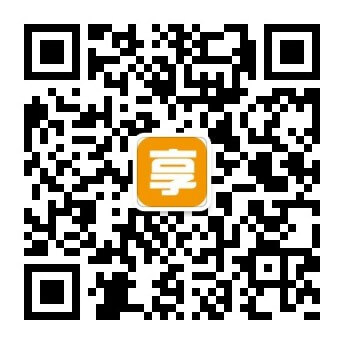
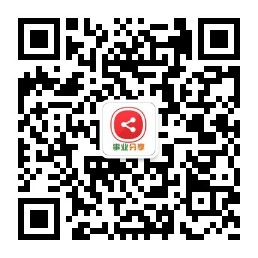
页面调整

diff --git a/src/components/profit/WithdrawCash.vue b/src/components/profit/WithdrawCash.vue
@@ -1,5 +1,8 @@
 <template>
-  <div id="cash" class="flexv wrap">
+  <div
+    id="cash"
+    class="flexv wrap"
+  >
     <div class="flexitemv mainbox">
       <div class="cashes">
         <div class="flex center title">推广奖励申请提现</div>
@@ -7,17 +10,27 @@
           <template v-if="!user.ali_account">
             <div class="flex"><span class="flexitem">未绑定账户</span></div>
             <div class="flex"><em class="flexitem">您当前尚未绑定支付宝</em></div>
-            <router-link to="/profit/bind_account" class="flex endh centerv bls bls-yjt"></router-link>
+            <router-link
+              to="/profit/bind_account"
+              class="flex endh centerv bls bls-yjt"
+            ></router-link>
           </template>
           <template v-else>
             <div class="flex"><span class="flexitem">支付宝</span></div>
-            <div class="flex"><em class="flexitem">{{user.ali_name + '  ' + user.ali_account}} </em></div>
-            <router-link to="/profit/bind_account" class="flex endh centerv bls bls-yjt"></router-link>
+            <div class="flex"><em class="flexitem">{{user.ali_name + ' ' + user.ali_account}} </em></div>
+            <router-link
+              to="/profit/bind_account"
+              class="flex endh centerv bls bls-yjt"
+            ></router-link>
           </template>
         </div>
         <h2 class="flex center">{{surplus_profit}}</h2>
         <p class="flex center">当前可提现余额</p>
-        <a href="javascript:;" class="flex center getcash" :class="{'disable': !user.ali_account || !surplus_profit}">申请提现</a>
+        <a
+          href="javascript:;"
+          class="flex center getcash"
+          :class="{'disable': !user.ali_account || !surplus_profit}"
+        >申请提现</a>
       </div>
       <div class="flex center tips"><span>温馨提示</span></div>
       <div class="tip">
@@ -30,89 +43,114 @@
 </template>
 
 <script>
-  import { getProfit, withdrawCash } from '../../api.js'
-  import { Toast, Indicator } from 'mint-ui'
-  import '../../assets/js/layer.js'
+import { getProfit, withdrawCash } from "../../api.js";
+import { Toast, Indicator } from "mint-ui";
+import "../../assets/js/layer.js";
 
-  export default {
-    name: "WithdrawCash",
-    data () {
-      return {
-
-      }
+export default {
+  name: "WithdrawCash",
+  data() {
+    return {};
+  },
+  computed: {
+    // 获取用户信息
+    user() {
+      return this.$store.state.user;
     },
-    computed: {
-      user () {
-        return this.$store.state.user
-      },
-      surplus_profit () {
-        return this.$store.state.surplus_profit
-      }
+    // 获取金额
+    surplus_profit() {
+      return this.$store.state.surplus_profit;
     },
-    mounted () {
-      this.init()
-    },
-    activated () {
-      if(this.$store.state.surplus_profit === null) {
-        let _this = this
-        let profit = getProfit()
-        profit.then(function (res) {
-          // _this.surplus_profit = res.surplus_profit
-          _this.$store.commit('updateSurplusProfit', res.surplus_profit)
-        })
-      }
-    },
-    methods: {
-      init () {
-        let _this = this
-        $('#cash .getcash').click(function () {
-          if (!_this.user.ali_account) {
-            Toast({message: '请先绑定银行卡', duration: 1000})
-            setTimeout(function () {
-              _this.$router.push('/profit/bind_account')
-            }, 1000)
-            return;
-          }
-          if (!_this.surplus_profit) {
-            Toast({message: '余额不足', duration: 1000})
-            return;
-          }
-          let trottle = null,
-              surplus_profit = _this.surplus_profit > 200 ? 200 : _this.surplus_profit
-          layer.open({
-            content: `<div class="sl">
+    // 获取会员字段
+    is_member() {
+      return this.$store.state.user.is_member;
+    }
+  },
+  mounted() {
+    this.init();
+  },
+  activated() {
+    if (this.$store.state.surplus_profit === null) {
+      let _this = this;
+      let profit = getProfit();
+      profit.then(function(res) {
+        // _this.surplus_profit = res.surplus_profit
+        _this.$store.commit("updateSurplusProfit", res.surplus_profit);
+      });
+    }
+  },
+  methods: {
+    init() {
+      let _this = this;
+      $("#cash .getcash").click(function() {
+        // 判断是否是会员，非会员不可提现
+        if (!this.is_member) {
+          Toast({ message: "成为会员，享受提现功能", duration: 1000 });
+          setTimeout(function() {
+            _this.$router.push("/open_member");
+          }, 1000);
+          return;
+        }
+        // 判断是否已绑定银行卡
+        if (!_this.user.ali_account) {
+          Toast({ message: "请先绑定银行卡", duration: 1000 });
+          setTimeout(function() {
+            _this.$router.push("/profit/bind_account");
+          }, 1000);
+          return;
+        }
+        // 限制提现金额
+        if(_this.surplus_profit < 100){
+          Toast({ message: "提现金额需满100", duration: 1000 });
+          return;
+        }
+        // 判断余额是否满足
+        if (!_this.surplus_profit) {
+          Toast({ message: "余额不足", duration: 1000 });
+          return;
+        }
+        let trottle = null,
+          surplus_profit =
+            _this.surplus_profit > 200 ? 200 : _this.surplus_profit;
+        layer.open({
+          content: `<div class="sl">
                         <p class="sl-item line" style="font-size: 17px">提现金额：</p>
                         <input type="number" name="integral" disabled value="${surplus_profit}" placeholder="请输入本次提现余额" class="sl-item" style="text-align: center">
-                      </div>`
-            , skin: 'footer'
-            , btn: ['确定', '取消']
-            , yes: function (index, el) {
-              if(!trottle) {
-                Indicator.open('申请提现中')
-                trottle = true;
-                //提现操作
-                let withdraw_cash = withdrawCash({price: surplus_profit})
-                withdraw_cash.then(function (res) {
-                  Indicator.close()
-                  if(res.code === 201) {
-                    Toast({message: '提现成功', duration: 1000})
-                    _this.$store.commit('updateSurplusProfit', _this.surplus_profit - surplus_profit)
+                      </div>`,
+          skin: "footer",
+          btn: ["确定", "取消"],
+          yes: function(index, el) {
+            if (!trottle) {
+              Indicator.open("申请提现中");
+              trottle = true;
+              //提现操作
+              let withdraw_cash = withdrawCash({ price: surplus_profit });
+              withdraw_cash
+                .then(function(res) {
+                  Indicator.close();
+                  if (res.code === 201) {
+                    Toast({ message: "提现成功", duration: 1000 });
+                    _this.$store.commit(
+                      "updateSurplusProfit",
+                      _this.surplus_profit - surplus_profit
+                    );
                   }
-                }).catch(function (e) {
-                  Indicator.close()
-                  Toast({message: e.msg, duration: 1000})
                 })
-                layer.close(index);
-              }
+                .catch(function(e) {
+                  Indicator.close();
+                  Toast({ message: e.msg, duration: 1000 });
+                });
+              layer.close(index);
             }
-            , anim: 'up'
-          });
+          },
+          anim: "up"
         });
-      }
+      });
     }
   }
+};
 </script>
 
 <style scoped>
-  @import "../../assets/css/layer.css";
+@import "../../assets/css/layer.css";
 </style>

diff --git a/src/components/index/ArticleSearch.vue b/src/components/index/ArticleSearch.vue
@@ -11,7 +11,7 @@
 
     <mescroll-vue ref="mescroll" :down="mescrollDown" :up="mescrollUp" @init="mescrollInit">
       <div class="listbox" id="listbox" style="height: 100%">
-        <a href="" class="flex" v-for="(item, index) of dataList" :key="index">
+        <!-- <a @click="toDetail(item.id)" class="flex" v-for="(item, index) of dataList" :key="index">
           <div class="between lists" v-if="item.covers.length < 3 && !item.cover_state">
             <div class="flexitemv cont">
               <h2 class="flexitemv">{{item.title}}</h2>
@@ -43,7 +43,45 @@
                         </span>
             </div>
           </div>
-        </a>
+        </a> -->
+        <router-link
+          :to="'/article_detail/' + item.id + '/public'"
+          class="flex"
+          v-for="(item, index) of dataList"
+          :key="index"
+        >
+          <div class="between lists" v-if="item.covers.length < 3 && !item.cover_state">
+            <div class="flexitemv cont">
+              <h2 class="flexitemv">{{item.title}}</h2>
+              <div class="flex base">
+                            <span class="flex center" style="padding-right: 30px">
+                                <i class="flex center bls"
+                                   :class="[item.category_id == 2 ? 'bls-listen' : 'bls-ck']"></i>
+                                {{item.read_count}}
+                            </span>
+              </div>
+            </div>
+            <div class="img">
+              <img class="fitimg" :src="item.cover"/>
+            </div>
+          </div>
+          <div class="flexv lists" v-else>
+            <div class="flexitemv cont">
+              <h2 class="flexitemv">{{item.title}}</h2>
+            </div>
+            <div class="around imgbox">
+              <div class="img" v-for="(cover, index) of item.covers" :key="index">
+                <img class="fitimg" :src="'http://stl.yxcxin.com/uploads/' + cover"/>
+              </div>
+            </div>
+            <div class="flex base">
+              <span class="flex center" style="padding-right: 30px"><i class="flex center bls bls-ck"></i>{{item.read_count}}</span>
+              <span class="flex center">
+                            <i class="flex center bls bls-time">{{item.created_at}}</i>
+                        </span>
+            </div>
+          </div>
+        </router-link>
       </div>
     </mescroll-vue>
   </div>
@@ -97,6 +135,10 @@
       }
     },
     methods: {
+      // 跳转文章详情
+      // toDetail(id){
+      //   this.$router.push("'/article_detail/' + item.id + '/public'")
+      // },
       //mescroll组件初始化的回调,可获取到mescroll对象 (如果this.mescroll并没有使用到,可不用写mescrollInit)
       mescrollInit(mescroll) {
         this.mescroll = mescroll

diff --git a/src/router.js b/src/router.js
@@ -349,7 +349,7 @@ const router = new Router({
       name: 'article_extension',
       component: () => import('./components/index/ArticleExtension.vue'),
       meta: {
-        title: '推荐文章p',
+        title: '推荐文章',
         requireAuth: true,
         wechat_jssdk: true
       }
@@ -401,6 +401,7 @@ router.afterEach((to, from) => {
   }
 })
 
+// 更新用户信息
 function config(url) {
   getWechatConfig({url: url}).then(function (res) {
     let config = res.config,
@@ -408,6 +409,8 @@ function config(url) {
     let new_user = JSON.parse(localStorage.user);
     new_user.member_lock_at = user.member_lock_at;
     new_user.is_member = user.is_member;
+    new_user.avatar = user.avatar
+    new_user.wechat_qrcode = user.qrcode
     localStorage.user = JSON.stringify(new_user);
     store.commit("setTokenAndUser", JSON.parse(localStorage.user));
     wx.config({

diff --git a/src/views/OpenMember.vue b/src/views/OpenMember.vue
@@ -106,7 +106,7 @@
           <img src="../assets/image/dredge_bj.png" class="fitimg">
         </div>
         <div class="flex center indate">
-          <div>有效期至：{{member_time}}</div>
+          <!-- <div>有效期至：{{member_time}}</div> -->
           <span></span>
         </div>
         <div class="button">
@@ -185,7 +185,6 @@ export default {
     },
     roll () {
       this.timer = setInterval(function roll() {
-        console.log('开通页面')
         var objh = $('.flip').height();
         $(".flipbox .bor").append($(".flipbox .bor .flip").first().height(0).animate({"height": objh + "px"}, 500));
       }, 2000);

diff --git a/src/assets/css/index.css b/src/assets/css/index.css
@@ -13,7 +13,7 @@ input::-webkit-outer-spin-button,input::-webkit-inner-spin-button{-webkit-appear
 .endh{-webkit-box-pack: end;}  /*水平向右*/
 .endv{-webkit-box-align: end;} /*垂直向下*/
 .end{-webkit-box-align: end; -webkit-box-pack: end;}
-.between{display:flex;justify-content:space-between;align-items: center;} /*两端对齐*/
+.between{display:flex;justify-content:space-between;align-items: center;width: 100%;} /*两端对齐*/
 .around{display:flex;justify-content:space-around;align-items: center;}  /*等间距*/
 .fwrap{display: flex;flex-wrap:wrap;}  /*换行*/
 /*************************** 动画 *****************************/

diff --git a/src/views/Login.vue b/src/views/Login.vue
@@ -22,7 +22,7 @@ export default {
           : "";
         let url = "http://btl.yxcxin.com?redirect=" + redirect;
         window.location.href =
-          "https://open.weixin.qq.com/connect/oauth2/authorize?appid=wxfa7b58cf37b2d3bd&redirect_uri=" +
+          "https://open.weixin.qq.com/connect/oauth2/authorize?appid=wxe910075ca3b12399&redirect_uri=" +
           url +
           "&response_type=code&scope=snsapi_userinfo&state=STATE#wechat_redirect";
       }

diff --git a/src/components/user_center/Posters.vue b/src/components/user_center/Posters.vue
@@ -1,7 +1,7 @@
 <template>
     <div class="picture" style="padding-bottom: 15px">
         <div class="between title">
-            <div class="tex">展示美图</div>
+            <div class="tex">展业美图</div>
             <router-link to="/poster" class="flex center more">更多 <i class="flex center bls bls-yjt"></i></router-link>
         </div>
         <div class="flex imgbox">

diff --git a/src/views/Visitor.vue b/src/views/Visitor.vue
@@ -120,7 +120,7 @@
       <div class="visitorBg"></div>
       <div class="mork">
         <p>开通会员之后才能追踪用户,</p>
-        <p>你已错过<span>10</span>次跟进客户机会,</p>
+        <p>你已错过<span>很多</span>次跟进客户机会,</p>
         <p>还有多少机会可以继续错过?</p>
         <router-link
           to="/open_member"

diff --git a/src/components/message/FamilyDetail.vue b/src/components/message/FamilyDetail.vue
@@ -38,7 +38,7 @@
     <!--end-->
     <div class="flexv center qrcode">
       <div class="img">
-        <img src="../../assets/image/qrcode.jpg"/>
+        <img src="../../assets/image/serviceOne.jpg"/>
       </div>
       <p>长按识别二维码</p>
       <p>联系客服咨询</p>

diff --git a/src/views/ArticleDetail.vue b/src/views/ArticleDetail.vue
@@ -31,7 +31,7 @@
             to="/index"
             class="site"
             id="index"
-          >事业头条</router-link>
+          >事业分享</router-link>
         </div>
         <div>
           <router-link
